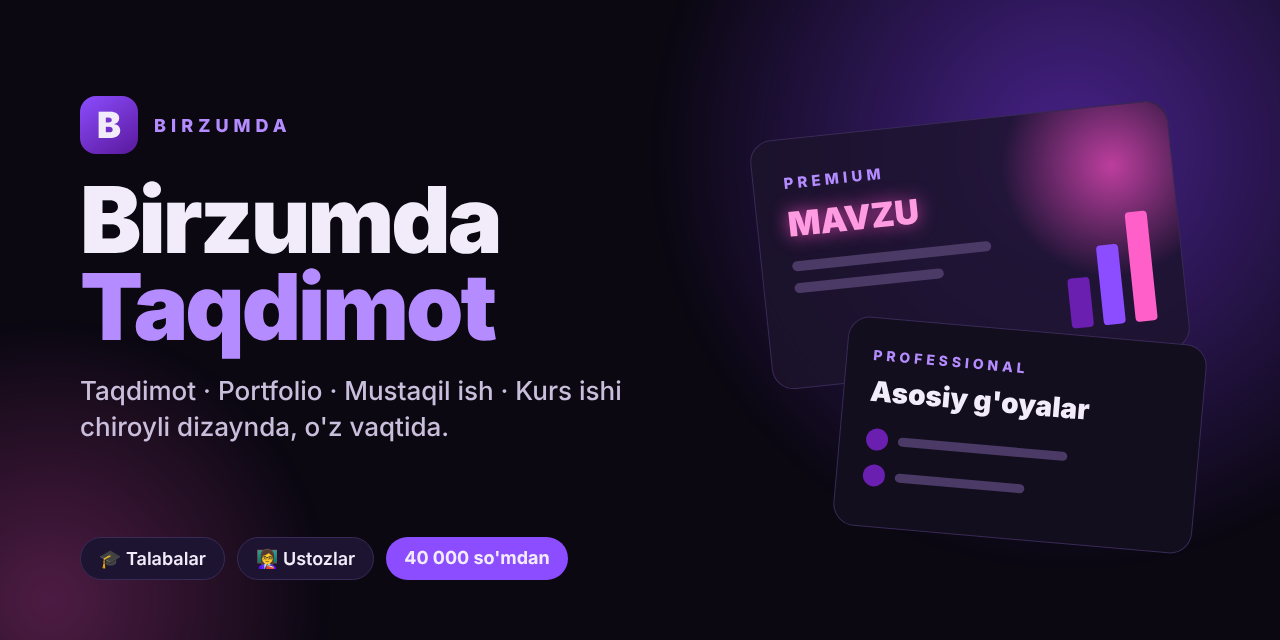
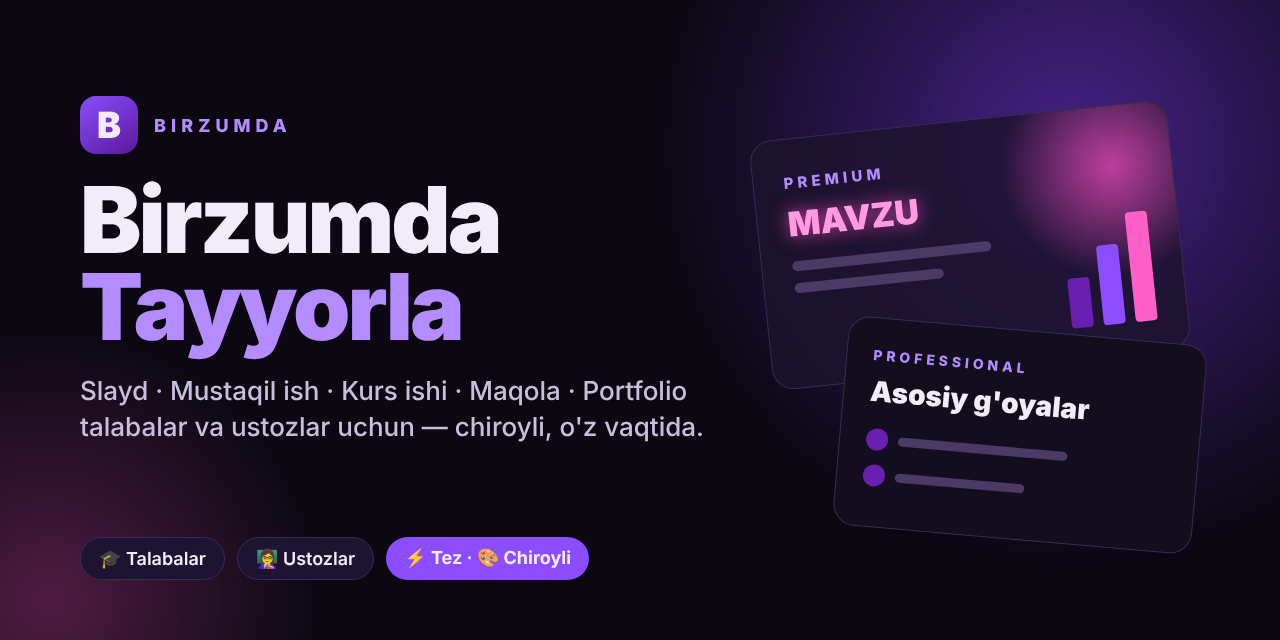
Yangi xizmatlar, salomlashuv, Boshqa buyurtma

diff --git a/index.html b/index.html
@@ -104,7 +104,7 @@ nav button.on svg{transform:translateY(-2px) scale(1.12)}
 
 <!-- HOME -->
 <section class="page on" id="p-home">
-  <div class="brand"><div class="logo">B</div><div><div class="k">Birzumda</div><div style="font-weight:800">Taqdimot</div></div></div>
+  <div class="brand"><div class="logo">B</div><div><div class="k">Birzumda</div><div style="font-weight:800">Tayyorla</div></div></div>
   <div class="card hero">
     <div class="ring"></div>
     <svg class="spark" style="left:62%;top:18px" viewBox="0 0 24 24"><path d="M12 0L14 10 24 12 14 14 12 24 10 14 0 12 10 10Z" fill="#FF8FDA"/></svg>
@@ -112,7 +112,7 @@ nav button.on svg{transform:translateY(-2px) scale(1.12)}
     <div class="k">Professional dizayn</div>
     <h1>Chiroyli ishlar<br><span class="grad">bir zumda</span></h1>
     <p class="m"><span class="rot" id="rot">Taqdimot</span> — o'z vaqtida, bepul tuzatish bilan.</p>
-    <div class="chips"><span class="chip hot">40 000 so'mdan</span><span class="chip">⚡ Tez</span><span class="chip">🔁 Bepul tuzatish</span></div>
+    <div class="chips"><span class="chip hot">🎓 Talaba · 👩🏫 Ustoz</span><span class="chip">⚡ Tez</span><span class="chip">🔁 Bepul tuzatish</span></div>
     <svg class="sticker" viewBox="0 0 100 100"><polygon points="50,2 61,30 92,22 72,47 96,68 64,70 60,98 46,74 20,92 28,62 2,50 30,38 18,10 44,24" fill="#FF5FC8" stroke="#fff" stroke-width="3"/><text x="50" y="58" text-anchor="middle" font-size="20" font-weight="900" fill="#fff">TOP</text></svg>
   </div>
   <div class="grid2 stag" id="homeTiles"></div>
@@ -166,7 +166,7 @@ nav button.on svg{transform:translateY(-2px) scale(1.12)}
 const tg = window.Telegram ? Telegram.WebApp : null;
 if (tg) { tg.ready(); tg.expand(); try { tg.setHeaderColor('#0B0812'); tg.setBackgroundColor('#0B0812'); } catch (e) {} }
 const hap = t => { try { tg && tg.HapticFeedback.impactOccurred(t || 'light'); } catch (e) {} };
-const fmt = n => n.toLocaleString('ru-RU').replace(/ /g, ' ') + " so'm";
+const fmt = n => !n ? 'Kelishiladi' : n.toLocaleString('ru-RU').replace(/ /g, ' ') + " so'm";
 const ICONS = {
   taqdimot: '<rect x="3" y="4" width="18" height="12" rx="2"/><path d="M12 16v4M8 20h8M7 12l3-3 3 2 4-4"/>',
   dars: '<rect x="3" y="4" width="18" height="12" rx="2"/><path d="M12 16v4M8 20h8M7 12l3-3 3 2 4-4"/>',
@@ -174,7 +174,13 @@ const ICONS = {
   kurs: '<path d="M4 19V5a2 2 0 0 1 2-2h12v18H6a2 2 0 0 1-2-2z"/><path d="M4 17a2 2 0 0 1 2-2h12M8 7h6M8 11h6"/>',
   portfolio: '<path d="M4 7h16v12H4z"/><path d="M9 7V5h6v2M4 12h16"/>',
   oum: '<path d="M2 5h7a3 3 0 0 1 3 3v12a2 2 0 0 0-2-2H2zM22 5h-7a3 3 0 0 0-3 3v12a2 2 0 0 1 2-2h8z"/>',
-  tadbir: '<path d="M12 2l3 7h7l-5.5 4.5L18 21l-6-4-6 4 1.5-7.5L2 9h7z"/>'
+  tadbir: '<path d="M12 2l3 7h7l-5.5 4.5L18 21l-6-4-6 4 1.5-7.5L2 9h7z"/>',
+  maqola: '<path d="M4 4h16v16H4z"/><path d="M8 8h8M8 12h8M8 16h5"/>',
+  amaliy: '<path d="M9 3h6M10 3v6l-5 9a2 2 0 0 0 2 3h10a2 2 0 0 0 2-3l-5-9V3"/>',
+  referat: '<path d="M14 3H6a2 2 0 0 0-2 2v14a2 2 0 0 0 2 2h12a2 2 0 0 0 2-2V9z"/><path d="M14 3v6h6"/>',
+  ishlanma: '<path d="M9 11l3 3 8-8"/><path d="M20 12v7a2 2 0 0 1-2 2H5a2 2 0 0 1-2-2V5a2 2 0 0 1 2-2h11"/>',
+  test: '<circle cx="12" cy="12" r="9"/><path d="M9.5 9a2.5 2.5 0 0 1 5 0c0 2-2.5 2-2.5 4M12 17h.01"/>',
+  boshqa: '<path d="M12 20h9"/><path d="M16.5 3.5a2.1 2.1 0 0 1 3 3L7 19l-4 1 1-4z"/>'
 };
 const svg = k => `<svg viewBox="0 0 24 24" fill="none" stroke="#fff" stroke-width="2" stroke-linecap="round" stroke-linejoin="round">${ICONS[k] || ICONS.taqdimot}</svg>`;
 let CAT = null, aud = 's', order = { aud: 's', svc: null, pkg: '', deadline: 'normal' };
@@ -189,13 +195,13 @@ function go(p) {
 }
 document.querySelectorAll('nav button').forEach(b => b.onclick = () => go(b.dataset.p));
 
-const words = ['Taqdimot', 'Portfolio', 'Mustaqil ish', 'Kurs ishi', "O'quv-uslubiy majmua"]; let wi = 0;
+const words = ['Slayd', 'Mustaqil ish', 'Kurs ishi', 'Maqola', 'Amaliy ish', 'Portfolio', "O'quv-uslubiy majmua"]; let wi = 0;
 setInterval(() => { const r = document.getElementById('rot'); wi = (wi + 1) % words.length; r.textContent = words[wi]; r.style.animation = 'none'; r.offsetHeight; r.style.animation = ''; }, 2200);
 
 function renderHome() {
   const s = CAT.s.services;
   document.getElementById('homeTiles').innerHTML = Object.entries(s).map(([k, v]) =>
-    `<div class="card tile" onclick="pick('s','${k}')"><div class="ico">${svg(k)}</div><b>${v.name}</b><span>${v.desc || 'Start · Professional · Premium'}</span><div class="pr">${fmt(minPrice(v))}dan</div></div>`).join('');
+    `<div class="card tile" onclick="pick('s','${k}')"><div class="ico">${svg(k)}</div><b>${v.name}</b><span>${v.desc || 'Start · Professional · Premium'}</span><div class="pr">${minPrice(v) ? fmt(minPrice(v)) + 'dan' : 'Kelishiladi'}</div></div>`).join('');
 }
 function bindSeg(id, cb) {
   const seg = document.getElementById(id);
@@ -208,7 +214,7 @@ function syncSeg(id) {
 function renderPrices() {
   syncSeg('seg'); const A = CAT[aud].services;
   const list = document.getElementById('priceList'); list.classList.remove('stag'); list.offsetHeight; list.classList.add('stag');
-  list.innerHTML = Object.entries(A).map(([k, v]) => `<div class="row"><div style="display:flex;gap:12px;align-items:center"><div class="ico" style="width:36px;height:36px;margin:0">${svg(k)}</div><div><b>${v.name}</b><small>${v.desc || 'Paketlar pastda'}</small></div></div><div class="v">${fmt(minPrice(v))}dan</div></div>`).join('');
+  list.innerHTML = Object.entries(A).map(([k, v]) => `<div class="row"><div style="display:flex;gap:12px;align-items:center"><div class="ico" style="width:36px;height:36px;margin:0">${svg(k)}</div><div><b>${v.name}</b><small>${v.desc || 'Paketlar pastda'}</small></div></div><div class="v">${minPrice(v) ? fmt(minPrice(v)) + 'dan' : 'Kelishiladi'}</div></div>`).join('');
   const pk = Object.values(A).find(v => v.packages);
   document.getElementById('pkTitle').textContent = pk.name + ' paketlari';
   document.getElementById('pkRow').innerHTML = Object.entries(pk.packages).map(([k, p]) => `<div class="${k === 'pro' ? 'hi' : ''}"><small>${p[0]}</small><b>${fmt(p[1]).replace(" so'm", '')}</b></div>`).join('');
@@ -224,14 +230,14 @@ function renderOrder() {
   if (order.aud !== aud) order = { aud, svc: null, pkg: '', deadline: order.deadline };
   syncSeg('seg2'); const A = CAT[aud].services;
   document.getElementById('svcOpts').innerHTML = Object.entries(A).map(([k, v]) =>
-    `<div class="opt ${order.svc === k ? 'on' : ''}" onclick="order.svc='${k}';order.pkg='';hap();renderOrder()"><span>${v.name}</span><span class="v">${fmt(minPrice(v))}${v.packages ? 'dan' : ''}</span></div>`).join('');
+    `<div class="opt ${order.svc === k ? 'on' : ''}" onclick="order.svc='${k}';order.pkg='';hap();renderOrder()"><span>${v.name}</span><span class="v">${minPrice(v) ? fmt(minPrice(v)) + (v.packages ? 'dan' : '') : 'Kelishiladi'}</span></div>`).join('');
   const s = A[order.svc];
   document.getElementById('pkgWrap').style.display = s && s.packages ? 'block' : 'none';
   if (s && s.packages) document.getElementById('pkgOpts').innerHTML = Object.entries(s.packages).map(([k, p]) =>
     `<div class="opt ${order.pkg === k ? 'on' : ''}" onclick="order.pkg='${k}';hap();renderOrder()"><span><b>${p[0]}</b><br><small style="color:var(--m)">${p[2]}</small></span><span class="v">${fmt(p[1])}</span></div>`).join('');
   document.getElementById('dlOpts').innerHTML = [['normal', 'Oddiy muddat', ''], ['urgent', '⚡ Shoshilinch', '+50%']].map(([k, n, x]) =>
     `<div class="opt ${order.deadline === k ? 'on' : ''}" onclick="order.deadline='${k}';hap();renderOrder()"><span>${n}</span><span class="v">${x}</span></div>`).join('');
-  const p = price(); document.getElementById('total').textContent = p ? fmt(p) : '—';
+  const p = price(); const sv = CAT[order.aud].services[order.svc]; document.getElementById('total').textContent = p ? fmt(p) : (sv && !sv.packages && sv.price == null ? 'Admin aytadi' : '—');
 }
 bindSeg('seg', renderPrices); bindSeg('seg2', renderOrder);
 

diff --git a/bot.py b/bot.py
@@ -26,7 +26,7 @@ from aiohttp import web
 from aiogram import Bot, Dispatcher, F, Router
 from aiogram.client.default import DefaultBotProperties
 from aiogram.enums import ParseMode
-from aiogram.filters import Command, CommandStart
+from aiogram.filters import Command, CommandStart, StateFilter
 from aiogram.fsm.context import FSMContext
 from aiogram.fsm.state import State, StatesGroup
 from aiogram.types import (CallbackQuery, FSInputFile, InlineKeyboardButton,
@@ -82,27 +82,35 @@ CATALOG = {
     "s": {
         "title": "🎓 Talabalar uchun",
         "services": {
-            "taqdimot": {"name": "Taqdimot", "packages": {
+            "taqdimot": {"name": "Slayd (taqdimot)", "packages": {
                 "start": ("Start", 40000, "10–12 slayd, zamonaviy dizayn, 1 kun"),
                 "pro": ("Professional", 70000, "15–20 slayd, animatsiya, diagrammalar, 1–2 kun"),
                 "premium": ("Premium", 95000, "20–25 slayd, Morph, neon dizayn, nutq matni, 2–3 kun"),
             }},
             "mustaqil": {"name": "Mustaqil ish", "price": 60000, "desc": "Word formatda, chiroyli muqova bilan"},
-            "kurs": {"name": "Kurs ishi", "price": 95000, "desc": "Reja, boblar, adabiyotlar, rasmiylashtirish"},
+            "kurs": {"name": "Kurs ishi", "price": 95000, "desc": "Reja, boblar, xulosa, adabiyotlar ro'yxati"},
+            "maqola": {"name": "Maqola / tezis", "price": 70000, "desc": "Ilmiy maqola yoki konferensiya tezisi"},
+            "amaliy": {"name": "Amaliy / laboratoriya ishi", "price": 40000, "desc": "Topshiriq sharti asosida, hisobot bilan"},
+            "referat": {"name": "Referat", "price": 40000, "desc": "Reja, matn, adabiyotlar, chiroyli muqova"},
             "portfolio": {"name": "Portfolio", "price": 50000, "desc": "Talaba portfoliosi va rezyume"},
+            "boshqa": {"name": "Boshqa — o'zingiz yozing", "price": None, "desc": "Ro'yxatda yo'q ishni yozing, narxni kelishamiz"},
         },
     },
     "t": {
         "title": "👩🏫 Ustozlar uchun",
         "services": {
-            "dars": {"name": "Dars taqdimoti", "packages": {
+            "dars": {"name": "Taqdimot (slayd)", "packages": {
                 "start": ("Start", 60000, "12–15 slayd, ochiq dars uchun"),
                 "pro": ("Professional", 110000, "15–20 slayd, animatsiya, diagrammalar"),
                 "premium": ("Premium", 180000, "20–25 slayd, Morph, nutq matni, video"),
             }},
             "portfolio": {"name": "Portfolio", "price": 120000, "desc": "Attestatsiya va «Eng yaxshi tyutor» tanlovi"},
             "oum": {"name": "O'quv-uslubiy majmua", "price": 250000, "desc": "Ma'ruza, amaliy mashg'ulot, testlar"},
+            "ishlanma": {"name": "Dars ishlanmasi", "price": 60000, "desc": "Ochiq dars yoki kundalik dars rejasi"},
+            "maqola": {"name": "Ilmiy maqola / tezis", "price": 120000, "desc": "Jurnal yoki konferensiya uchun"},
+            "test": {"name": "Test va topshiriqlar", "price": 50000, "desc": "Fan bo'yicha test, savollar, keyslar"},
             "tadbir": {"name": "Tadbir taqdimoti", "price": 80000, "desc": "Konferensiya, tadbir, hisobot"},
+            "boshqa": {"name": "Boshqa — o'zingiz yozing", "price": None, "desc": "Kerakli ishni yozing, narxni kelishamiz"},
         },
     },
 }
@@ -110,6 +118,7 @@ CATALOG = {
 DEADLINES = {"normal": "Oddiy muddat", "urgent": "⚡ Shoshilinch (+50%)"}
 
 STATUS = {
+    "quote": "💬 Narx kelishilmoqda",
     "new": "🕐 To'lov kutilmoqda",
     "paid": "🧾 Chek tekshirilmoqda",
     "work": "🛠 Tayyorlanmoqda",
@@ -118,7 +127,9 @@ STATUS = {
 }
 
 
-def money(n: int) -> str:
+def money(n) -> str:
+    if not n:
+        return "kelishiladi"
     return f"{n:,}".replace(",", " ") + " so'm"
 
 
@@ -250,14 +261,16 @@ def audience_kb(prefix="aud"):
 
 
 SVC_ICON = {"taqdimot": "image", "dars": "image", "mustaqil": "edit", "kurs": "channel",
-            "portfolio": "star", "oum": "bot", "tadbir": "fire"}
+            "portfolio": "star", "oum": "bot", "tadbir": "fire", "maqola": "globe", "amaliy": "orders",
+            "referat": "music", "ishlanma": "check", "test": "ok", "boshqa": "heart"}
 
 
 def services_kb(aud):
     rows = []
     for key, s in CATALOG[aud]["services"].items():
         price = min(p[1] for p in s["packages"].values()) if "packages" in s else s["price"]
-        rows.append([(f"{s['name']} — {money(price)}dan" if "packages" in s else f"{s['name']} — {money(price)}",
+        label = f"{s['name']} — {money(price)}dan" if price else s["name"]
+        rows.append([(label,
                       f"svc:{aud}:{key}", None, SVC_ICON.get(key))])
     rows.append([("⬅ Orqaga", "back:aud", "danger", "cancel")])
     return ikb(rows)
@@ -280,6 +293,9 @@ CONFIRM_KB = ikb([[("✅ Tasdiqlash", "confirm", "success", "ok")],
 
 
 def admin_kb(oid, status):
+    if status == "quote":
+        return ikb([[("💰 Narx belgilash", f"adm:price:{oid}", "success", "money")],
+                    [("❌ Rad etish", f"adm:no:{oid}", "danger", "cancel")]])
     if status == "paid":
         return ikb([[("✅ To'lov tasdiqlandi", f"adm:ok:{oid}", "success", "ok"), ("❌ Rad etish", f"adm:no:{oid}", "danger", "cancel")]])
     if status == "work":
@@ -299,6 +315,7 @@ class Order(StatesGroup):
 
 class AdminSend(StatesGroup):
     file = State()
+    price = State()
 
 
 router = Router()
@@ -326,12 +343,22 @@ async def notify_admins(bot: Bot, text: str, kb=None, photo=None, document=None)
 async def start(m: Message, state: FSMContext):
     await state.clear()
     text = (f"Assalomu alaykum, <b>{html.escape(m.from_user.first_name)}</b>! {pe('hi', '👋')}\n\n"
-            f"{pe('star', '✨')} <b>{BOT_NAME}</b> — taqdimot, portfolio, mustaqil ish va kurs ishlarini "
-            "chiroyli dizaynda, o'z vaqtida tayyorlab beradi.\n\n"
-            f"{pe('student', '🎓')} Talabalar uchun — <b>40 000 so'mdan</b>\n"
-            f"{pe('teacher', '👩🏫')} Ustozlar uchun — <b>60 000 so'mdan</b>\n\n"
-            + (f"{pe('app', '📱')} <b>«✨ Mini ilova»</b> tugmasini bosib, hammasini chiroyli ko'rinishda ko'ring!\n\n" if WEBAPP_URL else "")
-            + f"Quyidagi menyudan tanlang {pe('down', '👇')}")
+            f"{pe('star', '✨')} <b>{BOT_NAME}</b> — o'qish va ish uchun kerakli ishlarni "
+            "tez, chiroyli va o'z vaqtida tayyorlab beradi.\n\n"
+            f"{pe('bot', '🤖')} <b>Bot nima qila oladi?</b>\n"
+            f"{pe('student', '🎓')} <b>Talabalarga:</b> slayd, mustaqil ish, kurs ishi, maqola, amaliy ish, referat, portfolio\n"
+            f"{pe('teacher', '👩🏫')} <b>Ustozlarga:</b> taqdimot, portfolio, o'quv-uslubiy majmua, dars ishlanmasi, maqola, testlar\n"
+            f"{pe('edit', '✍')} Ro'yxatda yo'q bo'lsa — o'zingiz yozasiz\n\n"
+            f"{pe('heart', '🎁')} <b>Siz nima olasiz?</b>\n"
+            f"{pe('ok', '✅')} Tayyor fayl (PPTX / Word / PDF) shu chatga keladi\n"
+            f"{pe('image', '🎨')} Professional dizayn\n"
+            f"{pe('fire', '⚡')} O'z vaqtida va bepul tuzatish\n\n"
+            f"{pe('orders', '📋')} <b>Qanday ishlaydi?</b>\n"
+            "1⃣ «Buyurtma berish» → kim uchun: talaba yoki ustoz\n"
+            "2⃣ Kerakli ishni tanlaysiz va mavzuni yozasiz\n"
+            "3⃣ To'lov qilib, chekni yuborasiz\n"
+            "4⃣ Tayyor ish shu yerga keladi\n\n"
+            f"Boshlash uchun menyudan tanlang {pe('down', '👇')}")
     banner = ASSETS / "banner.png"
     if banner.exists():
         await m.answer_photo(FSInputFile(banner), caption=text, reply_markup=MAIN_KB)
@@ -367,7 +394,8 @@ def prices_text() -> str:
                 for name, price, desc in s["packages"].values():
                     lines.append(f"    ◦ {name} — <b>{money(price)}</b>\n       <i>{desc}</i>")
             else:
-                lines.append(f"• {s['name']} — <b>{money(s['price'])}</b>dan\n    <i>{s['desc']}</i>")
+                p = f"<b>{money(s['price'])}</b>dan" if s["price"] else "<b>narx kelishiladi</b>"
+                lines.append(f"• {s['name']} — {p}\n    <i>{s['desc']}</i>")
         parts.append("\n".join(lines))
     return "\n\n".join(parts)
 
@@ -452,7 +480,13 @@ async def choose_svc(c: CallbackQuery, state: FSMContext):
         await c.message.edit_text("\n".join(txt), reply_markup=packages_kb(aud, svc))
     else:
         await state.update_data(base_price=s["price"])
-        await ask_topic(c.message, state, f"<b>{s['name']}</b> — {money(s['price'])}dan\n<i>{s['desc']}</i>")
+        if s["price"] is None:
+            await state.set_state(Order.topic)
+            await c.message.answer(f"{pe('edit', '✍')} <b>Qanday ish kerak?</b>\n"
+                                   "Ish turini va mavzuni yozing (masalan: «Diplom ishi — Raqamli iqtisodiyot»).\n"
+                                   "<i>Narxni admin ko'rib chiqib, sizga yuboradi.</i>")
+        else:
+            await ask_topic(c.message, state, f"<b>{s['name']}</b> — {money(s['price'])}dan\n<i>{s['desc']}</i>")
     await c.answer()
 
 
@@ -538,8 +572,12 @@ async def got_deadline(c: CallbackQuery, state: FSMContext):
 async def show_confirm(m: Message, state: FSMContext):
     data = await state.get_data()
     dl = data["deadline"]
-    price = int(data["base_price"] * (1 + URGENT_EXTRA)) if dl == "urgent" else data["base_price"]
-    price = round(price / 1000) * 1000
+    base = data.get("base_price")
+    if base:
+        price = int(base * (1 + URGENT_EXTRA)) if dl == "urgent" else base
+        price = round(price / 1000) * 1000
+    else:
+        price = 0
     await state.update_data(price=price)
     await state.set_state(Order.confirm)
     s = CATALOG[data["aud"]]["services"][data["svc"]]
@@ -600,17 +638,24 @@ async def cancel(c: CallbackQuery, state: FSMContext):
 @router.callback_query(Order.confirm, F.data == "confirm")
 async def confirm(c: CallbackQuery, state: FSMContext, bot: Bot):
     data = await state.get_data()
+    quote = not data.get("price")
+    if quote:
+        data["price"] = 0
     oid = create_order(data, c.from_user)
-    await state.set_state(Order.cheque)
-    await state.update_data(order_id=oid)
-    await c.message.answer(
-        f"✅ <b>Buyurtma #{oid} qabul qilindi!</b>\n\n"
-        f"💳 To'lov uchun karta:\n<code>{CARD_NUMBER}</code>\n👤 {CARD_OWNER}\n\n"
-        f"💰 Summa: <b>{money(data['price'])}</b>\n\n"
-        "To'lovdan so'ng <b>chek rasmini (skrinshot)</b> shu yerga yuboring 📸",
-        reply_markup=MAIN_KB)
+    if quote:
+        set_status(oid, "quote")
+        await state.clear()
+        await c.message.answer(
+            f"{pe('ok', '✅')} <b>So'rov #{oid} qabul qilindi!</b>\n\n"
+            f"{pe('orders', '🔎')} Admin ishingizni ko'rib chiqib, <b>narx va muddatni</b> shu yerga yuboradi.\n"
+            "Odatda 10–30 daqiqa ichida javob beramiz.", reply_markup=MAIN_KB)
+    else:
+        await state.set_state(Order.cheque)
+        await state.update_data(order_id=oid)
+        await c.message.answer(payment_text(oid, data["price"]), reply_markup=MAIN_KB)
     o = get_order(oid)
-    await notify_admins(bot, "🆕 Yangi buyurtma (to'lov kutilmoqda)\n\n" + order_text(o, True))
+    head = "🆕 Yangi so'rov — NARX BELGILANG" if quote else "🆕 Yangi buyurtma (to'lov kutilmoqda)"
+    await notify_admins(bot, head + "\n\n" + order_text(o, True), admin_kb(oid, o["status"]))
     for f in data.get("files", []):
         for aid in ADMIN_IDS:
             try:
@@ -623,13 +668,16 @@ async def confirm(c: CallbackQuery, state: FSMContext, bot: Bot):
     await c.answer()
 
 
-@router.message(Order.cheque, F.photo | F.document)
-async def got_cheque(m: Message, state: FSMContext, bot: Bot):
-    data = await state.get_data()
-    oid = data["order_id"]
+def payment_text(oid: int, price: int) -> str:
+    return (f"{pe('ok', '✅')} <b>Buyurtma #{oid} qabul qilindi!</b>\n\n"
+            f"💳 To'lov uchun karta:\n<code>{CARD_NUMBER}</code>\n👤 {CARD_OWNER}\n\n"
+            f"{pe('money', '💰')} Summa: <b>{money(price)}</b>\n\n"
+            f"To'lovdan so'ng <b>chek rasmini (skrinshot)</b> shu yerga yuboring {pe('down', '👇')}")
+
+
+async def accept_cheque(m: Message, bot: Bot, oid: int):
     set_status(oid, "paid")
-    await state.clear()
-    await m.answer("🧾 Chek qabul qilindi! Tekshirib, tez orada ishni boshlaymiz. "
+    await m.answer(f"{pe('check', '🧾')} Chek qabul qilindi! Tekshirib, tez orada ishni boshlaymiz. "
                    "Holatini «📦 Buyurtmalarim» bo'limida ko'rasiz.", reply_markup=MAIN_KB)
     o = get_order(oid)
     text = "🧾 Chek keldi!\n\n" + order_text(o, True)
@@ -637,6 +685,19 @@ async def got_cheque(m: Message, state: FSMContext, bot: Bot):
         await notify_admins(bot, text, admin_kb(oid, "paid"), photo=m.photo[-1].file_id)
     else:
         await notify_admins(bot, text, admin_kb(oid, "paid"), document=m.document.file_id)
+
+
+def awaiting_payment(uid: int):
+    with db() as con:
+        return con.execute("SELECT id FROM orders WHERE user_id=? AND status='new' ORDER BY id DESC LIMIT 1",
+                           (uid,)).fetchone()
+
+
+@router.message(Order.cheque, F.photo | F.document)
+async def got_cheque(m: Message, state: FSMContext, bot: Bot):
+    oid = (await state.get_data())["order_id"]
+    await state.clear()
+    await accept_cheque(m, bot, oid)
 
 
 @router.message(Order.cheque)
@@ -665,12 +726,32 @@ async def admin_action(c: CallbackQuery, state: FSMContext, bot: Bot):
         await bot.send_message(o["user_id"], f"❌ Buyurtma #{oid} bo'yicha to'lov tasdiqlanmadi.\n"
                                              f"Savol bo'lsa: {CONTACT}")
         await c.message.answer(f"#{oid} — rad etildi.")
+    elif act == "price":
+        await state.set_state(AdminSend.price)
+        await state.update_data(price_oid=oid)
+        await c.message.answer(f"#{oid} uchun narxni yozing (faqat raqam, masalan 150000):")
     elif act == "send":
         await state.set_state(AdminSend.file)
         await state.update_data(send_oid=oid)
         await c.message.answer(f"#{oid} uchun tayyor faylni yuboring (bir nechta bo'lishi mumkin). "
                                "Tugatgach /done yozing.")
     await c.answer()
+
+
+@router.message(AdminSend.price, F.text)
+async def admin_price(m: Message, state: FSMContext, bot: Bot):
+    digits = "".join(ch for ch in m.text if ch.isdigit())
+    if not digits:
+        await m.answer("Faqat raqam yozing, masalan 150000")
+        return
+    price = int(digits)
+    oid = (await state.get_data())["price_oid"]
+    await state.clear()
+    with db() as con:
+        con.execute("UPDATE orders SET price=?, status='new' WHERE id=?", (price, oid))
+    o = get_order(oid)
+    await bot.send_message(o["user_id"], f"{pe('money', '💰')} So'rovingiz #{oid} narxi belgilandi.\n\n" + payment_text(oid, price))
+    await m.answer(f"#{oid} — narx {money(price)} mijozga yuborildi ✅")
 
 
 @router.message(AdminSend.file, Command("done"))
@@ -696,6 +777,15 @@ async def admin_file(m: Message, state: FSMContext, bot: Bot):
     else:
         await bot.send_photo(o["user_id"], m.photo[-1].file_id, caption=cap)
     await m.answer("Yuborildi. Yana fayl bo'lsa yuboring yoki /done.")
+
+
+@router.message(StateFilter(None), F.photo | F.document)
+async def loose_cheque(m: Message, bot: Bot):
+    row = awaiting_payment(m.from_user.id)
+    if row:
+        await accept_cheque(m, bot, row["id"])
+    else:
+        await m.answer("Fayl qabul qilindi. Buyurtma berish uchun «🛒 Buyurtma berish» tugmasini bosing.", reply_markup=MAIN_KB)
 
 
 @router.message(Command("orders"))
